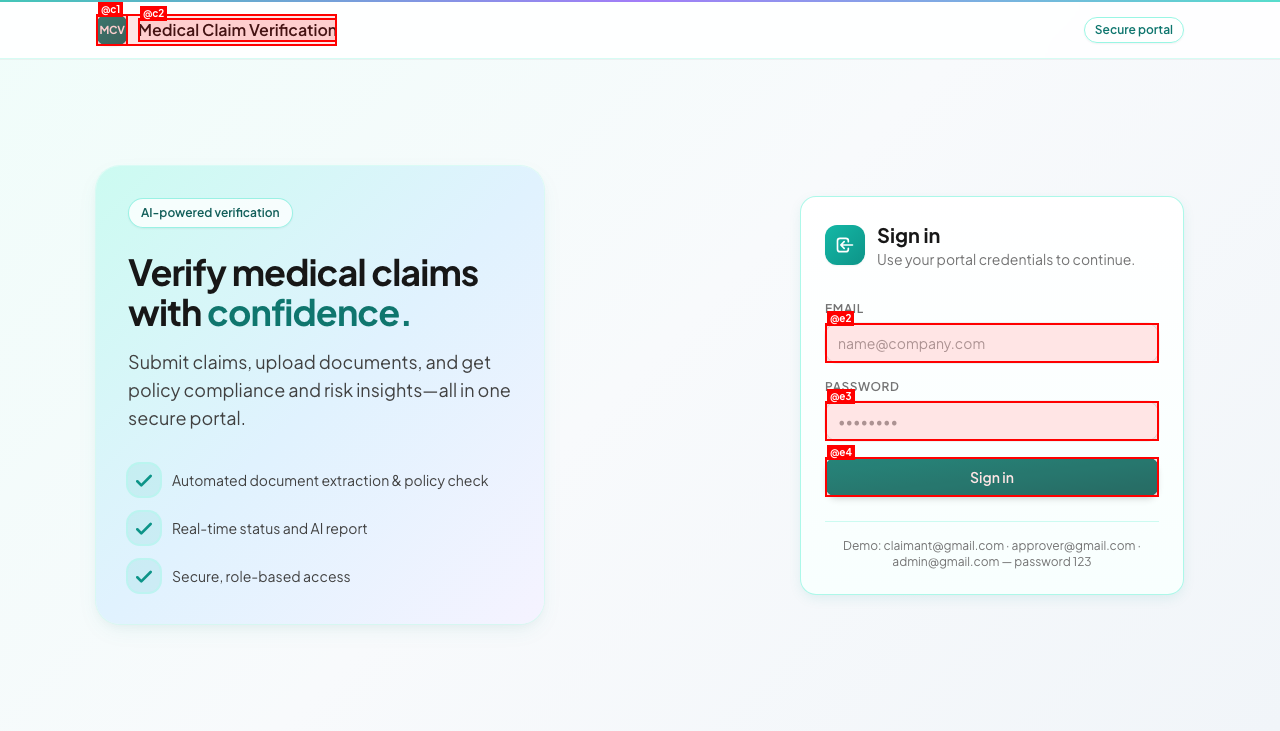
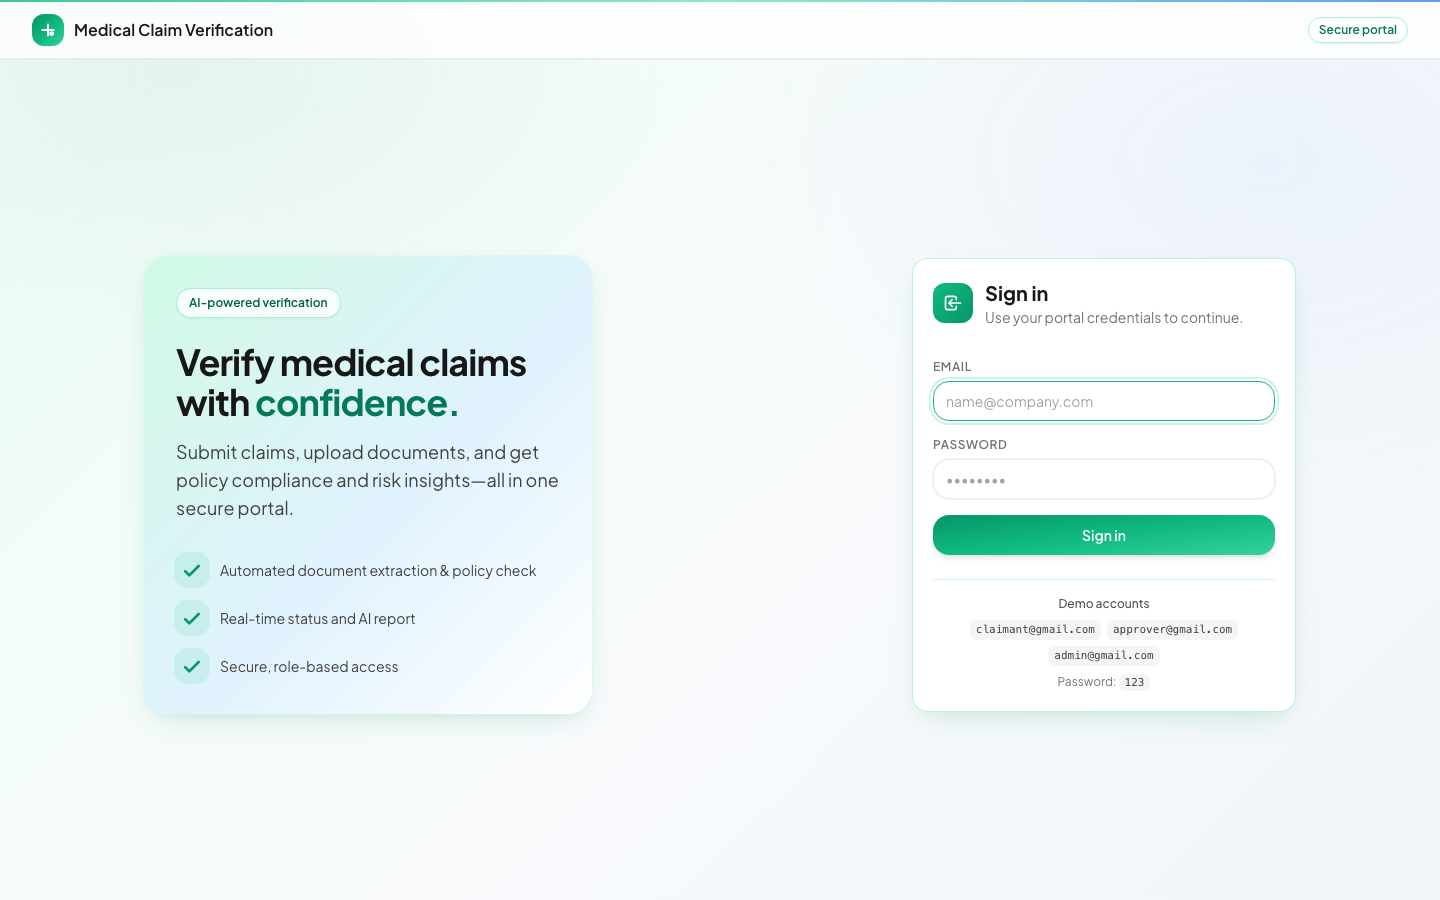
docs: refresh screenshots for new UI + embed in PROJECT.md
Captured fresh screenshots at 1440x900 against the design/mvp-ui-polish UI:
- 01-landing.png — login page
- 04-claim-detail.png — full-page claim detail (verdict + decision + docs)
- 07-claimant-dashboard.png — list-primary claimant view with "+ New claim"
- 08-approver-dashboard.png — review queue (alert stats + table rows)
- 09-approver-review.png — viewport-only claim detail for approver
- 10-approver-queue.png — admin viewing approver queue
- 11-admin-dashboard.png — admin dashboard variant
- fraud-journeys/01 — admin dashboard
- fraud-journeys/02 — low-risk green journey detail

Removed stale screenshots from old UI:
- 05-claim-json.png (raw JSON view removed from main UI)
- 07-login-again.png (duplicate)
- 10-approval-result.png (superseded)
- 11-approver-queue-after.png (superseded)
- fraud-journeys/04, 05 (no amber/red test data exists currently)

PROJECT.md gained a Screenshots section embedding the key visuals with
short captions explaining what each shot demonstrates.

diff --git a/docs/PROJECT.md b/docs/PROJECT.md
@@ -209,3 +209,37 @@ make start    # backend + frontend
 **Demo logins:** `claimant@gmail.com`, `approver@gmail.com`, `admin@gmail.com` — all password `123`.
 
 **For deeper architecture detail:** see `README.md` at the repo root.
+
+---
+
+## Screenshots
+
+### Login page
+![Login](./qa-screenshots/01-landing.png)
+
+### Approver — review queue
+Alert-driven stats (SLA breach, High risk, Needs decision, Oldest pending). Table-like row with risk badge, waiting time, status. Sorted by priority (high risk + oldest).
+
+![Approver queue](./qa-screenshots/08-approver-dashboard.png)
+
+### Approver — claim detail
+Verdict-first layout. Risk score inside the verdict tile on the left. Top issues human-readable. Sticky decision sidebar with override toggle + auto-fill message.
+
+![Claim detail](./qa-screenshots/09-approver-review.png)
+
+### Admin — dashboard variant
+Same data, different lens. Alert-driven stats colored by urgency. Oldest-first sort. No "+ New claim" CTA — admin doesn't create claims.
+
+![Admin dashboard](./qa-screenshots/11-admin-dashboard.png)
+
+### Claimant — dashboard
+List-primary. "+ New claim" opens a modal form. Status filter, auto-refresh every 30s.
+
+![Claimant dashboard](./qa-screenshots/07-claimant-dashboard.png)
+
+### Fraud journey — low risk approval candidate
+Compliant policy + low risk score + no warnings → "Likely approve" verdict. Approve button enabled.
+
+![Green journey](./fraud-journeys/02-journey-green-detail.png)
+
+> Higher-risk amber/red journey screenshots not included — current test data only contains low-risk claims. To regenerate with realistic risk distribution, run the synthetic data generator and the fraud-detection pipeline against varied inputs.
